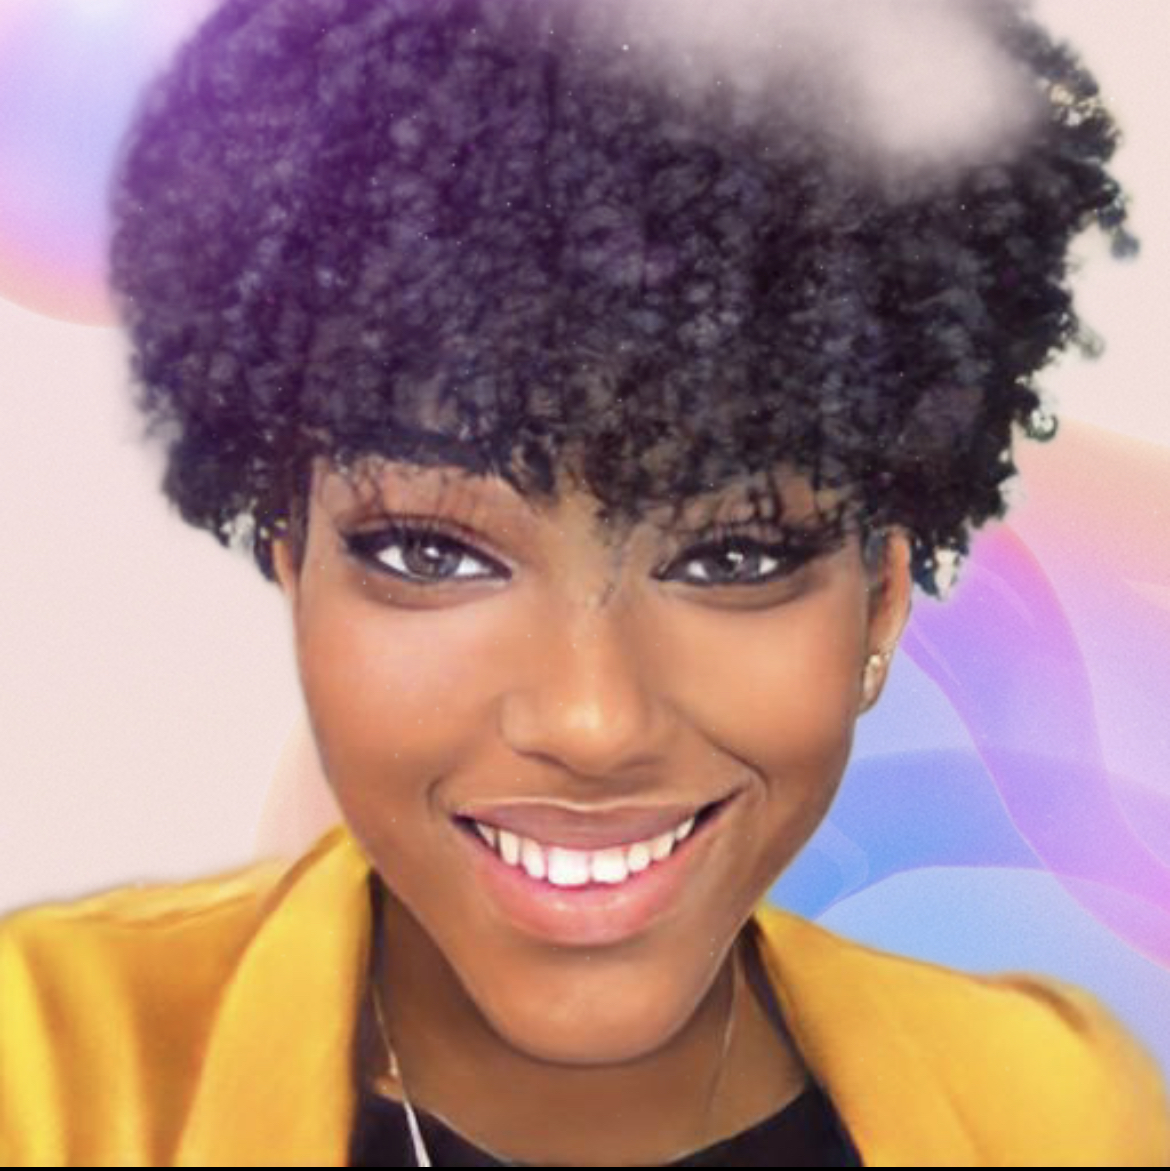
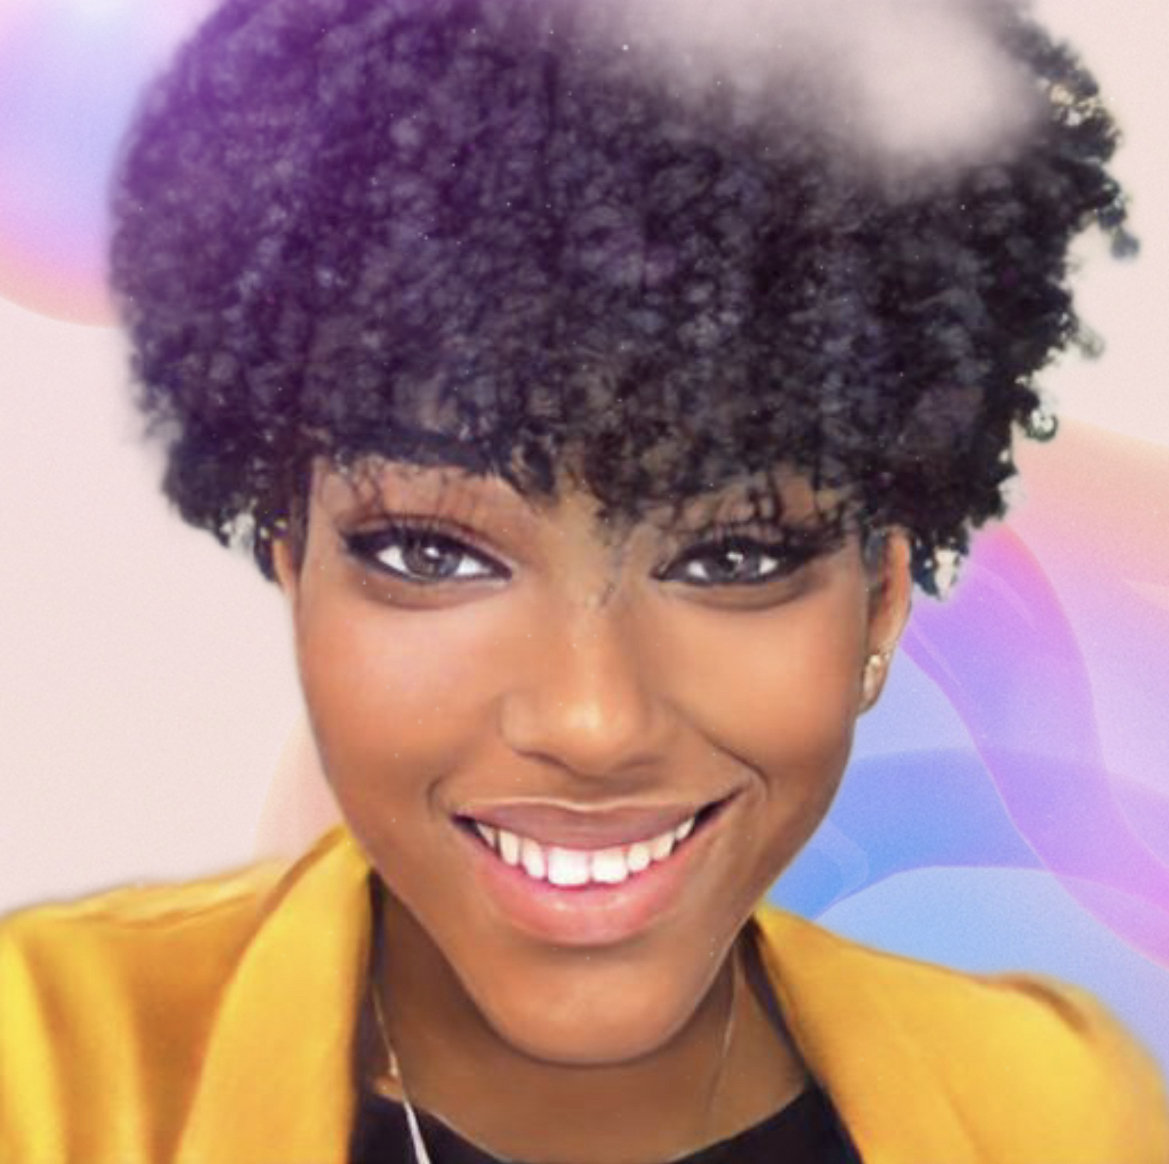
Changes to cover image size/ changes to nav bar

diff --git a/src/components/Contact/Contact.js b/src/components/Contact/Contact.js
@@ -1,4 +1,9 @@
 import React, { useState } from "react";
+import Container from "@mui/material/Container"
+import TextField from "@mui/material/TextField";
+import Typography from "@mui/material/Typography";
+import Button from "@mui/material/Button";
+import SendIcon from '@mui/icons-material/Send';
 import { validateEmail } from "../../utils/helpers";
 
 function Contact() {
@@ -39,44 +44,56 @@ function Contact() {
   }
 
   return (
-    <section>
-      <h1>Contact Me</h1>
-      <form id="contact" onSubmit={handleSubmit}>
+    <Container
+      component="form"
+      sx={{'& .MuiTextField-root': { m: 3, width: '35ch' }, pb: 50}}
+      align="center"
+      noValidate
+      onSubmit={handleSubmit}
+      autoComplete="off">
+      <Typography
+        variant="h2"
+        align="center"
+        sx={{p: 5}}
+        gutterBottom>
+            Get in Touch
+        </Typography>
         <div>
-          <label htmlFor="name">Name:</label>
-          <input
-            type="text"
-            defaultValue={name}
+          <TextField
+            id="name"
+            label="Name"
+            multiline
             onBlur={handleChange}
             name="name"
-          />
+          ></TextField>
         </div>
         <div>
-          <label htmlFor="email">Email:</label>
-          <input
-            type="email"
-            defaultValue={email}
+          <TextField
+            id="email"
+            label="Email"
+            multiline
             onBlur={handleChange}
             name="email"
-          />
+          ></TextField>
         </div>
         <div>
-          <label htmlFor="message">Message:</label>
-          <textarea
-            name="message"
-            defaultValue={message}
+          <TextField
+            id="message"
+            label="Message"
+            multiline
+            minRows={5}
+            maxRows={6}
             onBlur={handleChange}
-            rows="5"
-          />
+            name="message"
+          ></TextField>
         </div>
         {errorMessage && (
             <div>
                 <p className="error-text">{errorMessage}</p>
             </div>
         )}
-        <button type="submit">Submit</button>
-      </form>
-    </section>
+        <Button color="secondary" size="large" variant="outlined" type="submit" endIcon={<SendIcon fontSize="large" />}>Submit </Button>
+    </Container>
   );
 }
 

diff --git a/src/components/Nav/Nav.js b/src/components/Nav/Nav.js
@@ -1,25 +1,38 @@
-import React from "react";
+import React, { useState } from "react";
+import { Tabs, Tab } from '@mui/material';
 
-function Nav(props) {
+function LinkTab(props) {
+    return (
+        <Tab
+          component="a"
+          onClick={(event) => {
+              event.preventDefault();
+          }}
+          {...props} />
+    )
+}
+
+function NavTabs(props) {
   const { sections = [], currentSection, setCurrentSection } = props;
+  const [value, setValue] = useState(0);
+
+  const handleChange = (event, newValue) => {
+      setValue(newValue);
+  };
 
   return (
     <header>
       <nav>
-        <ul className="flex-row">
-                 {sections.map((section) => (
-                     <li className={`mx-2 ${currentSection.name === section.name && 'navActive'}`} key={section.name}>
-                         <a href={`#${section.name}`} onClick={() => {
-                             setCurrentSection(section);
-                         }}>
-                             {section.name}
-                         </a>
-                     </li>
-                 ))}
-            </ul>
+        <Tabs value={value} onChange={handleChange} aria-label="nav tabs">
+            {sections.map((section) => (
+                <LinkTab label={section.name} href={`#${section.name}`} className={`mx-2 ${currentSection.name === section.name && 'navActive'}`} onClick={() => {
+                    setCurrentSection(section);
+                }}/>
+            ))}
+        </Tabs>
       </nav>
     </header>
   );
 }
 
-export default Nav;
+export default NavTabs;

diff --git a/src/components/Footer/Footer.js b/src/components/Footer/Footer.js
@@ -1,0 +1,45 @@
+import React from "react";
+import Typography from "@mui/material/Typography";
+import Grid from "@mui/material/Grid";
+import IconButton from "@mui/material/IconButton";
+import GitHubIcon from "@mui/icons-material/GitHub";
+import LinkedInIcon from "@mui/icons-material/LinkedIn";
+import Box from "@mui/material/Box";
+
+function Footer() {
+  return (
+    <Box component="footer" sx={{ p: 3, flexGrow: 1 }}>
+      <Grid container cols={12} spacing={1}>
+      <Grid align="left" item xs={6}>
+          <IconButton
+            onClick={() =>
+              (window.location.href = "https://github.com/harvbcoding")
+            }
+            aria-label="github"
+            size="large"
+            align="right">
+            <GitHubIcon fontSize="inherit" />
+          </IconButton>
+          <IconButton
+            onClick={() =>
+              (window.location.href =
+                "https://www.linkedin.com/in/breania-harvey-b313b8210/")
+            }
+            aria-label="linked-in"
+            size="large"
+            align="right"
+          >
+            <LinkedInIcon fontSize="inherit" />
+          </IconButton>
+        </Grid>
+        <Grid item xs>
+          <Typography variant="subtitle1" align="right">
+            Made with 💖 by Breania (Bre) Harvey
+          </Typography>
+        </Grid>
+      </Grid>
+    </Box>
+  );
+}
+
+export default Footer;

diff --git a/src/components/Resume/Resume.js b/src/components/Resume/Resume.js
@@ -1,10 +1,15 @@
 import React from "react";
+import Container from '@mui/material/Container'
+import Typography from "@mui/material/Typography";
 import resumeFile from "../../assets/resume/2021BreResume.pdf";
 
 function Resume() {
     return (
-        <div>
-            <h1 id="resume">Bre's Resume</h1>
+        <Container align="center">
+            {/* <h1 id="resume">Bre's Resume</h1> */}
+            <Typography
+              variant="h2" align="center" sx={{ p: "4rem" }} gutterBottom
+            >Bre's Resume and Skills</Typography>
             <iframe 
                 id="resume-pdf" 
                 title="Bre Resume" 
@@ -12,8 +17,8 @@ function Resume() {
                 frameboarder="1"
                 scrolling="auto"
                 height="1100"
-                width="75%"></iframe>
-        </div>
+                width="80%"></iframe>
+        </Container>
     )
 }
 

diff --git a/src/components/Project/Project.js b/src/components/Project/Project.js
@@ -3,8 +3,8 @@ import {ImageList, ImageListItem, ImageListItemBar} from '@mui/material'
 
 function srcset(image, size, rows = 1, cols = 1) {
     return {
-      src: `https://res.cloudinary.com/dceprxjzq/image/upload/w_${size * cols},h_${size * rows},c_fill/${image}.jpg`,
-      srcSet: `https://res.cloudinary.com/dceprxjzq/image/upload/w_${size * cols},h_${size * rows},c_fill/${image}.jpg`,
+      src: `https://res.cloudinary.com/dceprxjzq/image/upload/w_${size * cols},h_${size * rows},c_lfill/${image}.jpg`,
+      srcSet: `https://res.cloudinary.com/dceprxjzq/image/upload/w_${size * cols},h_${size * rows},c_lfill/${image}.jpg`,
     };
   }
 

diff --git a/src/components/About/About.js b/src/components/About/About.js
@@ -31,7 +31,7 @@ function About() {
                 you for taking the time to view my work. I am a Saint Louis based
                 full stack developer attending coding bootcamp at Washington
                 Unversity, also Saint Louis based. I am a detail-oriented, creative
-                person who is excited about coding. I've always been someone who
+                person who is excited about web development. I've always been someone who
                 likes to make something beautiful out of nothing and web development
                 gives me the opportunity to make something beautiful every day.
             </Typography>

diff --git a/src/App.js b/src/App.js
@@ -4,7 +4,7 @@ import About from '../src/components/About/About'
 import Contact from '../src/components/Contact/Contact'
 import Portfolio from '../src/components/Portfolio/Portfolio'
 import Resume from '../src/components/Resume/Resume'
-// import Footer from '../src/components/Footer/Footer'
+import Footer from '../src/components/Footer/Footer'
 import './App.css';
 
 function App() {
@@ -38,6 +38,7 @@ function App() {
       <main>
         {currentSection.component}
       </main>
+      <Footer />
     </div>
   );
 }
